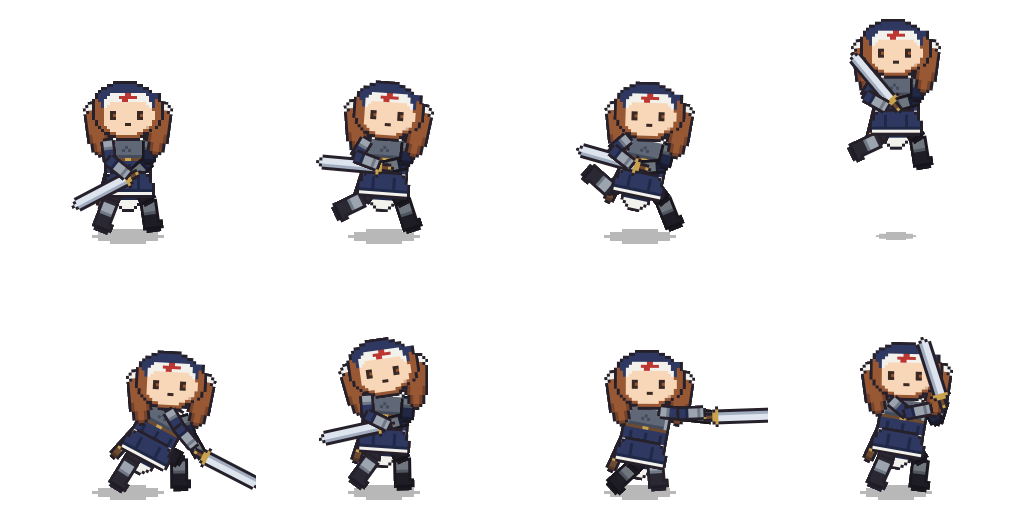
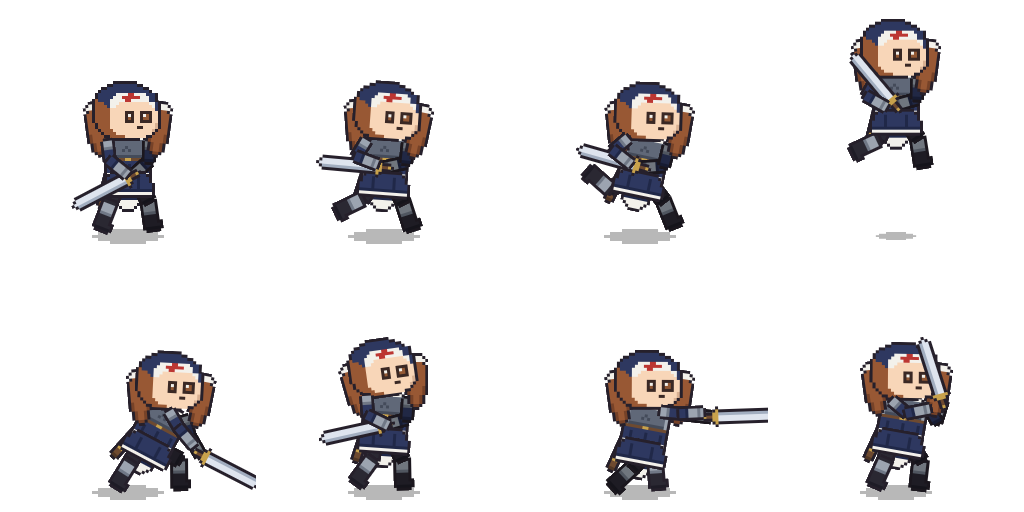
Turn Elara's face further off front, and double the eyes
The face was reading straight-on. Its features move toward the leading
edge, the trailing eye narrows the way a turned head foreshortens it,
the hair banks up thicker on the trailing side, and a cheek shade
catches the leading edge. The eyes are about twice the size with a
glint, which is what carries the expression at this scale.

diff --git a/examples/state-editor/knight-nun/gen/gen.go b/examples/state-editor/knight-nun/gen/gen.go
@@ -67,22 +67,22 @@ var headArt = []string{
 	".....OONNNNNNNNOO.......",
 	"...OONNNNNNNNNNNNOO.....",
 	"..ONNNNNNNNNNNNNNNNO....",
-	".ONNNNWWWWWRRWWWWWNNNNO.",
-	".ONNNWWWWRRRRRRWWWWNNNO.",
-	"OHNNWWWWWWRRWWWWWWWNNHO.",
-	"OHHNWWPPPPPPPPPPPPWWNHHO",
-	"OHHNWPPPPPPPPPPPPPPWNHHO",
-	"OHHHPPPPPPPPPPPPPPPPHHHO",
-	"OHHHPPeePPPPPPPeePPPPHHO",
-	"OHHHPPeEPPPPPPPeEPPPPHHO",
-	"OHHHPPeePPPPPPPeePPPPHHO",
-	".OHHPPPPPPPPPPPPPPPPHHO.",
-	".OHHPPPPPPPeePPPPPPPHHO.",
-	"..OHHPPPPPPPPPPPPPpHHO..",
-	"...OHHPPPPPPPPPPPHHO....",
-	"....OOHHPPPPPPPHHOO.....",
-	"......OOHHHHHHHHOO......",
-	"........OOOOOOOO........",
+	".ONNNNNNWWWWRRWWWWNNNO..",
+	".ONNNNNWWWRRRRRRWWWNNO..",
+	"OHNNNNWWWWWRRWWWWWWNNO..",
+	"OHHHNNWWWPPPPPPPPPPWWNO.",
+	"OHHHHNWWPPPPPPPPPPPPWNO.",
+	"OHHHHHPPPPPPPPPPPPPPPNO.",
+	"OHHHHHPPPPPeeePPeeeePPO.",
+	"OHHHHHPPPPPeWePPeWEePPO.",
+	"OHHHHHPPPPPeEePPeEEePPO.",
+	"OHHHHHPPPPPeeePPeeeePPO.",
+	".OHHHHPPPPPPPPPPPPPPPpO.",
+	".OHHHHPPPPPPPPPeePPPPpO.",
+	"..OHHHHPPPPPPPPPPPPPpO..",
+	"...OHHHHPPPPPPPPPPPPO...",
+	"....OOHHHHHPPPPPPPOO....",
+	"......OOOOOOOOOO........",
 }
 
 // Rear-quarter head for turns and the spin attacks: mostly veil and the
@@ -92,22 +92,22 @@ var headSideArt = []string{
 	".....OONNNNNNNNOO.......",
 	"...OONNNNNNNNNNNNOO.....",
 	"..ONNNNNNNNNNNNNNNNO....",
-	".ONNNNNNNNNWWWWWWNNNO...",
-	".ONNNNNNNNWWWRRWWWNNNO..",
-	"OHNNNNNNNWWWWRRWWWWNNHO.",
-	"OHHNNNNNNWWWPPPPPPWWNHHO",
-	"OHHNNNNNNWWPPPPPPPPWNHHO",
-	"OHHHHHHHHHPPPPPPPPPPHHHO",
-	"OHHHHHHHHHPPPPPeePPPPHHO",
-	"OHHHHHHHHHPPPPPeEPPPPHHO",
-	"OHHHHHHHHHPPPPPeePPPPHHO",
-	".OHHHHHHHHPPPPPPPPPPHHO.",
-	".OHHHHHHHHHPPPPPePPPHHO.",
-	"..OHHHHHHHHHPPPPPPpHHO..",
-	"...OHHHHHHHHHPPPPPHHO...",
-	"....OOHHHHHHHHPPPHHOO...",
-	"......OOHHHHHHHHOO......",
-	"........OOOOOOOO........",
+	".ONNNNNNNNNWWWRRWWWNO...",
+	".ONNNNNNNNWWWRRRRWWWNO..",
+	"OHNNNNNNNWWWWWRRWWWWNO..",
+	"OHHNNNNNNNNWWWPPPPPWWNO.",
+	"OHHHNNNNNNNWWPPPPPPPWNO.",
+	"OHHHHHHHHHHHPPPPPPPPPNO.",
+	"OHHHHHHHHHHHPPPPeeeePPO.",
+	"OHHHHHHHHHHHPPPPeWEePPO.",
+	"OHHHHHHHHHHHPPPPeEEePPO.",
+	"OHHHHHHHHHHHPPPPeeeePPO.",
+	".OHHHHHHHHHHPPPPPPPPPpO.",
+	".OHHHHHHHHHHPPPPPPPeepO.",
+	"..OHHHHHHHHHHPPPPPPPpO..",
+	"...OHHHHHHHHHHPPPPPPO...",
+	"....OOHHHHHHHHHPPPPOO...",
+	"......OOOOOOOOOO........",
 }
 
 // Fully turned away: veil, the cross on the back of the coif, and the
